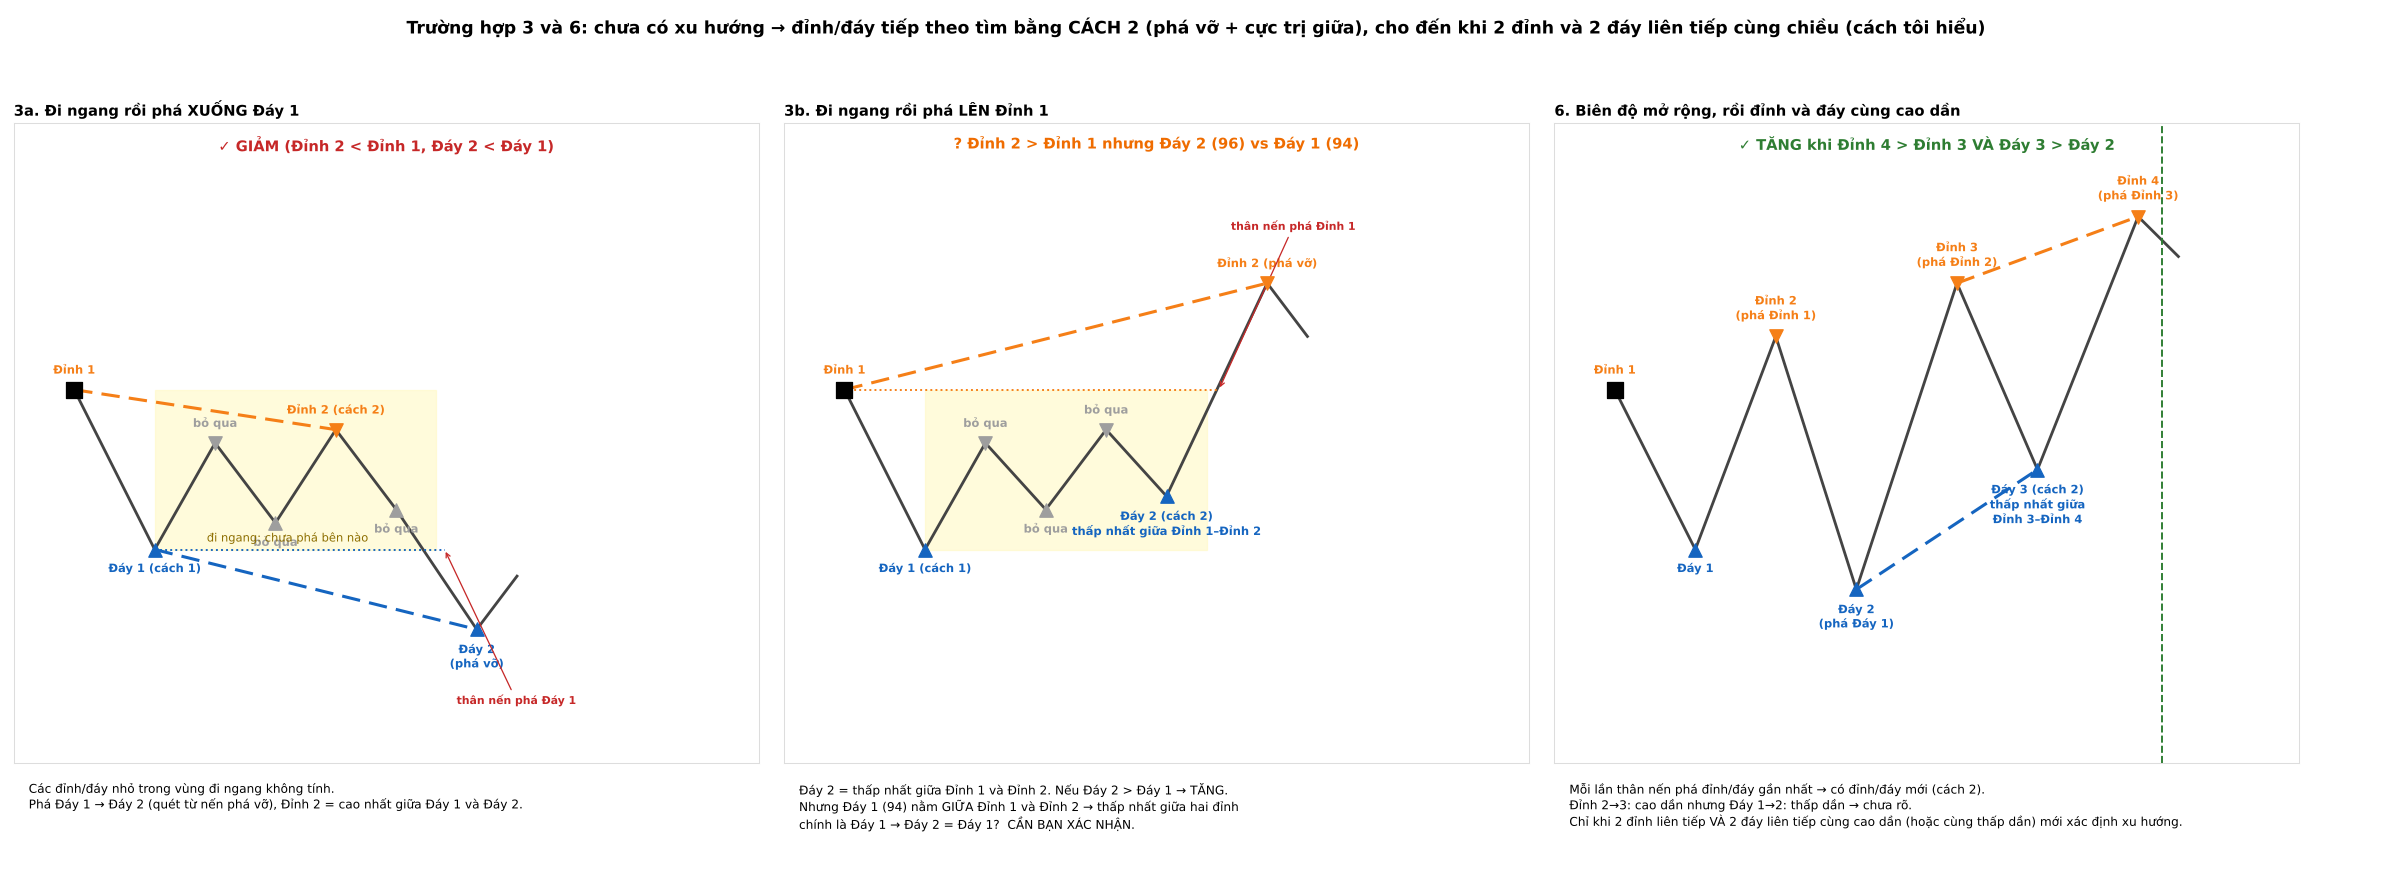
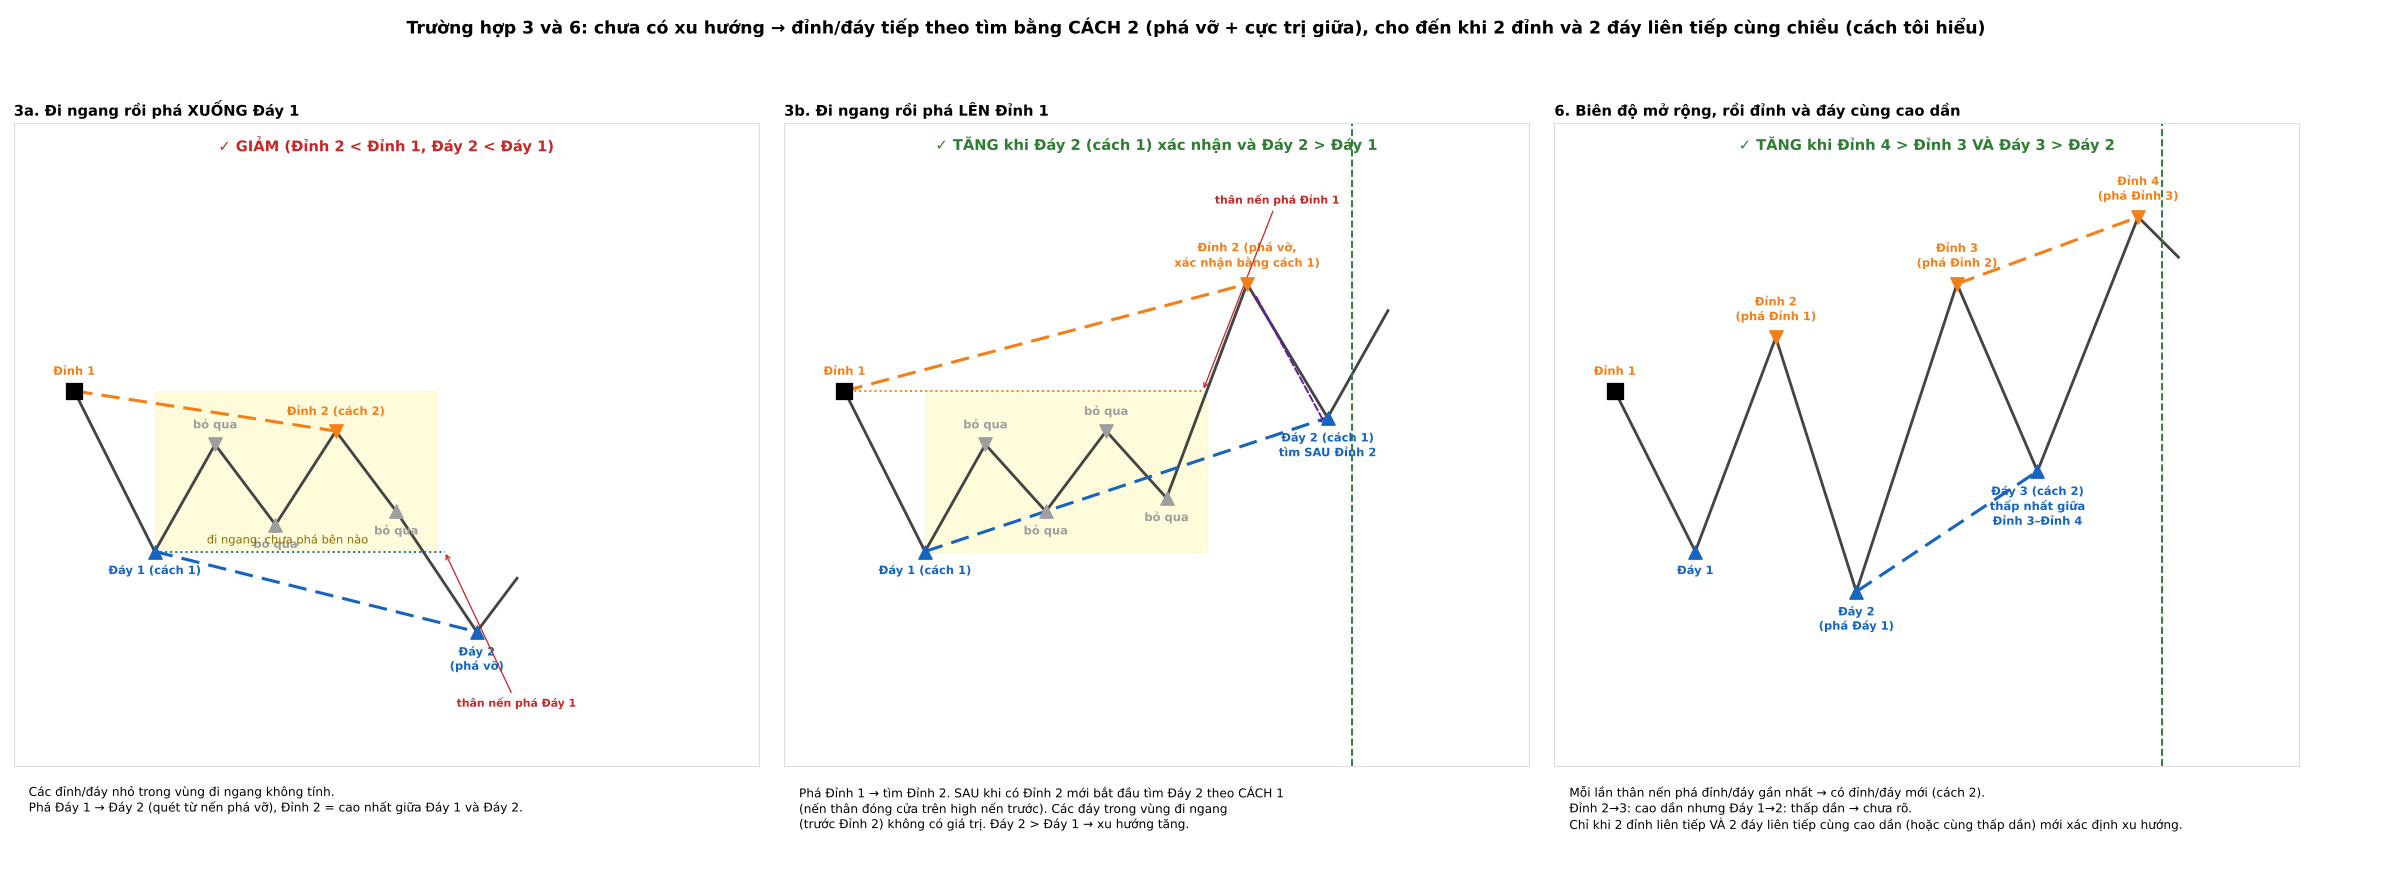
Bước 1: chốt trường hợp đi ngang/chưa rõ (cách 2) và ngoại lệ 3b (tìm Đáy 2 theo cách 1 sau Đỉnh 2)
Claude-Session: https://claude.ai/code/session_01QDQqkxbAsnss6apbWZAP33

diff --git a/knowledge/03-setup.md b/knowledge/03-setup.md
@@ -70,6 +70,9 @@ Ví dụ chart thật: `examples/01-dinh-day-xauusd-h4.jpg`
   - **Xác nhận xu hướng giảm khi Đáy 2 được xác nhận** (không phải ngay lúc phá Đáy 1).
 - **Giá đi lên trước:** ngược lại (Đáy 1 = râu dưới nến đóng cửa ngày trước; Đỉnh 1 theo cách 1; phá Đỉnh 1 → Đỉnh 2; Đáy 2 = điểm thấp nhất giữa hai đỉnh; xác nhận tăng khi Đỉnh 2 được xác nhận).
 - **Đi xuống tạo Đáy 1, rồi quay lên vượt Đỉnh 1 mà chưa phá Đáy 1:** đợi **đỉnh mới cao hơn Đỉnh 1** và **đáy mới cao hơn Đáy 1** (cả hai tìm bằng **cách 1**) → xác nhận xu hướng tăng. (Đi lên trước thì ngược lại.)
+- **Đi ngang / chưa rõ xu hướng đầu ngày (trường hợp 3 và 6, đã xác nhận):** phải đợi tạo thêm đỉnh và đáy. Xu hướng chỉ xác định khi **2 đỉnh liên tiếp VÀ 2 đáy liên tiếp cùng thấp dần (giảm) hoặc cùng cao dần (tăng)**. Đỉnh/đáy lúc này tìm theo **cách 2** (chỉ có đỉnh/đáy mới khi thân nến phá đỉnh/đáy gần nhất); các đỉnh/đáy nhỏ trong vùng đi ngang không tính.
+  - **Ngoại lệ (đã xác nhận, trường hợp 3b):** đi ngang rồi phá LÊN Đỉnh 1 → tìm Đỉnh 2; **SAU khi có Đỉnh 2 mới tìm Đáy 2 theo cách 1**. Các đáy trong vùng đi ngang (trước Đỉnh 2) không có giá trị (không lấy "thấp nhất giữa Đỉnh 1 và Đỉnh 2" vì khoảng đó chứa chính Đáy 1). Đáy 2 > Đáy 1 → tăng. (Đi lên trước rồi phá XUỐNG: ngược lại.)
+  - Minh họa: `examples/35-buoc1-tat-ca-truong-hop.png`, `examples/36-chua-ro-xu-huong-cach-2.png`.
 - **Áp dụng chung (đã xác nhận):** khi giá quay ngược qua điểm bắt đầu mà chưa phá Đỉnh 1/Đáy 1, dùng quy tắc 2 đỉnh + 2 đáy gần nhất (cách 1) – cùng chiều nào thì xác nhận xu hướng chiều đó (có thể tăng hoặc giảm).
 - Minh họa trên dữ liệu thật: `backtest/buoc-1-m15.png` (22/10/2026), `backtest/buoc-1-m15-2026-09-08.png`, `-2026-09-10.png`, `-2026-08-11.png` (đã duyệt).
 
